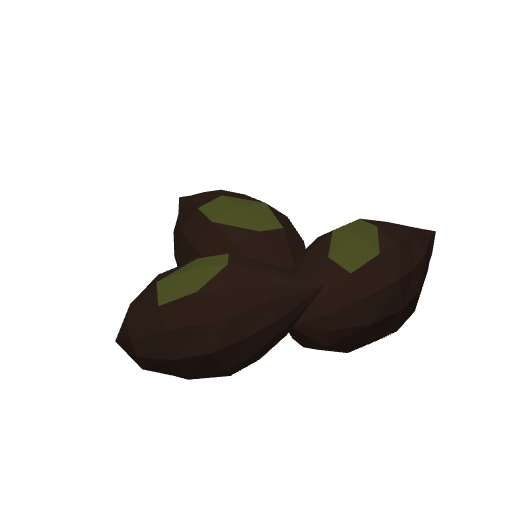
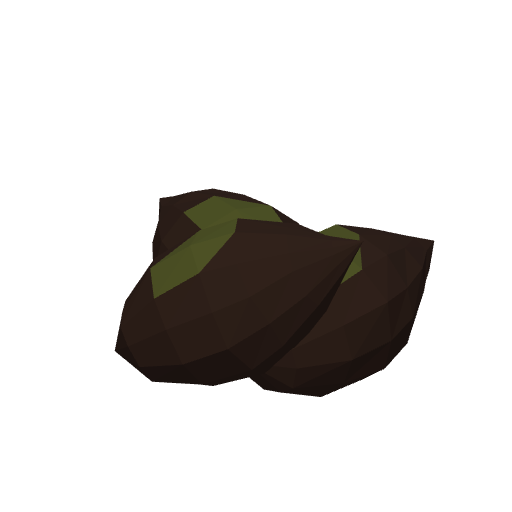
fix(ingredients): olive 배치 교정 + 스킬 6패스 실측 함정 크립 반영
파일럿 2회차 — 스킬 내부 6패스 풀 루프까지 완주했다. 1회차는 cmp/roundtrip까지만 밟았는데,
끝까지 가보니 하드 게이트 2종이 숨어 있었다.

## olive 배치 교정
알 3개가 레퍼런스의 밀착 무더기보다 넓게 퍼져 있어 오프셋을 절반으로 좁혔다.
뒤 알(c)은 정중앙 뒤로 보내니 고정 카메라에서 거의 완전히 가려져(R1 "서로 가리지 않게" 위반,
roundtrip 실측) 일부만 되돌렸다. tiltZ 0.32→0.5 — 뭉툭한 끝 단서 피처가 0.55점으로
important 기준 0.65에 미달했다. 432tri/43KB 유지.

## 크립에 추가된 실측 함정

- ★**좌표 임계값(로컬 Y > k·R) 마스크는 패치를 못 만든다.** 3/4 부감이라 "위를 향한 면"이
  시야의 절반 가까이여서, k를 0.1→0.55로 올려도 늘 보이는 중심부가 그대로 남아 렌더가 거의 안 바뀐다.
  정본 대체 = `buildRevolvedShell`의 `ringStart`로 **링 인덱스 + 섹터**를 직접 지정.
  `splitTrianglesByVertexMask`는 OR-of-3-vertices라 링 1개가 최소 단위다.
- **렌더가 안 바뀌면 캐싱을 의심하기 전에 바이트로 확인해라** — PNG를 직접 diff해서 캐싱이
  아님을 확인한 뒤에야 진짜 원인(마스크 방식 자체의 실패)에 닿았다.
- ★**스킬의 진짜 패스 게이트는 tier1 IoU가 아니라 `append_review.py`의 피처 평균 점수다.**
  important 0.65 / critical mustPass 0.8 미만이면 ValueError로 거부된다. AI 렌더 레퍼런스는
  원근 차이 때문에 IoU 0.85 하드 임계에 구조적으로 못 닿는다(올리브 최선 0.664, pancake도 동일).
- **명령 출력을 /dev/null로 죽이지 마라** — append 실패를 통째로 놓치고 "기록됐다"고 잘못 마크했다가
  `reviewHistory` 개수를 세어보고서야 들켰다.
- `state.py`의 마크 순서는 체크리스트 배열 순서를 따른다(`pass-gate-check` → `ai-review-recorded`).
- `author_spec.py`의 `PIPELINE_OWNED`에 `tier1Results`를 넣어야 재생성 때 이력이 안 날아간다.

Claude-Session: https://claude.ai/code/session_01UpDH2U1e4JnMopJwuhVJAM

Changed region(s): [[0.25, 0.3438, 0.875, 0.5938], [0.2188, 0.5, 0.8438, 0.7812]]

diff --git a/scripts/ingredients/olive.ts b/scripts/ingredients/olive.ts
@@ -73,10 +73,15 @@ interface OliveDef {
 
 // assets/ingredients/work/olive/object-sculpt-spec.json OLIVES 전사.
 // olive-a = "one tilted to show its blunt end" (geometry.silhouette, olive.json).
+// 1회 수정(advisor 리뷰 반영, 오실레이션 아님): 최초 오프셋은 레퍼런스의 밀착된 무더기보다
+// 넓게 퍼져 있었다(cmp-sheet.png 자기 리뷰에서 지적) — 절반으로 좁혀 서로 닿게 했다.
+// tiltZ도 0.32->0.5로 올렸다 — tilted-blunt-end-cue 피처 리뷰가 0.55점(important 기준 0.65 미달).
 const OLIVES: Record<'a' | 'b' | 'c', OliveDef> = {
-  a: { offset: [-0.62, 0.3], yaw: -0.55, tiltZ: 0.32, tilted: true },
-  b: { offset: [0.6, 0.22], yaw: 0.3, tiltZ: 0.0, tilted: false },
-  c: { offset: [0.02, -0.55], yaw: 1.55, tiltZ: 0.0, tilted: false },
+  a: { offset: [-0.33, 0.18], yaw: -0.55, tiltZ: 0.5, tilted: true },
+  b: { offset: [0.33, 0.15], yaw: 0.3, tiltZ: 0.0, tilted: false },
+  // c의 Z만 -0.30 -> -0.45로 되돌림: -0.30은 a/b 사이 정중앙 뒤라 고정 카메라에서 거의 완전히
+  // 가려졌다(R1 "서로 가리지 않게" 위반, roundtrip.png 실측). 원래 -0.55보다는 여전히 좁혔다.
+  c: { offset: [0.0, -0.45], yaw: 1.55, tiltZ: 0.0, tilted: false },
 };
 
 /**
